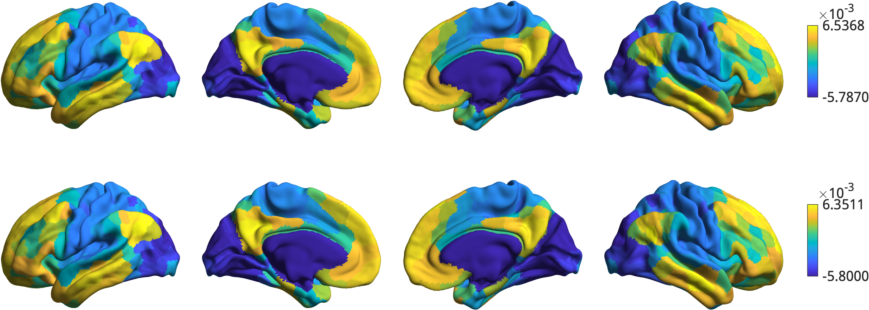
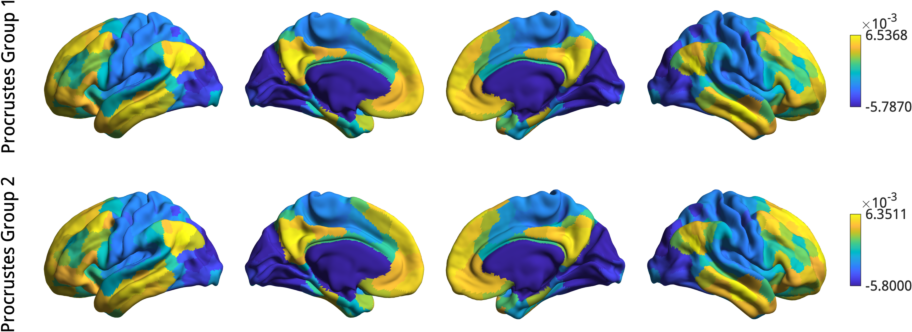
Revamped the figures of tutorial 2 + corrections

diff --git a/matlab/plot_data/plot_hemispheres.m b/matlab/plot_data/plot_hemispheres.m
@@ -30,7 +30,7 @@ if numel(S) > 3; error('More than two surfaces are not accepted.'); end
 N1 = sum(cellfun(@(x)size(x.coord,2),S));
 N2 = size(data,1);
 if N1 ~= N2; error('Number of vertices on the surface and number of data points do not match.'); end
-if size(data,2) > 5; warning('Plotting more than five data vectors results in off-screen axes'); end
+if size(data,2) > 4; warning('Plotting more than four data vectors may result in off-screen axes'); end
 
 % Split data over surfaces.
 for ii = 1:size(data,2)
@@ -55,7 +55,7 @@ colormap(parula(256));
 for jj = 1:size(D,2)
     for ii = 1:numel(S)*2
         idx = ceil(ii/2);
-        h.axes(ii,jj) = axes('Position',[-.133+ii*.133 1-.2*jj .2 .2]);
+        h.axes(ii,jj) = axes('Position',[-.1+ii*.133 .9-.2*jj .2 .2]);
         h.trisurf(ii,jj) = trisurf(S{idx}.tri, ...
             S{idx}.coord(1,:), ...
             S{idx}.coord(2,:), ...
@@ -95,9 +95,9 @@ for ii = 1:size(D,2)
     h.cb(ii).FontSize = 14;
 end
 
-% Add labels
+% Add labels         
 for ii = 1:numel(label_text)
     h.text(ii) = text(h.axes(1,ii),-.2,.5,label_text{ii},'Rotation',90, ...
         'Units','Normalized','HorizontalAlignment','center', 'FontName', ...
-        'DroidSans','FontSize',16);
+        'DroidSans','FontSize',18);
 end

diff --git a/matlab/@GradientMaps/GradientMaps.m b/matlab/@GradientMaps/GradientMaps.m
@@ -134,7 +134,7 @@ classdef GradientMaps
                                     obj.method.alignment = 'None';
                                 case {'pa','procrustes','procrustes analysis','procrustesanalysis'}
                                     obj.method.alignment = 'Procrustes Analysis';
-                                case {'j','joint','jointalignment'}
+                                case {'ja','joint','jointalignment'}
                                     obj.method.alignment = 'Joint Alignment';
                             end
                             change_string{end+1} = (['Set the alignment to: ' obj.method.alignment '.']);

diff --git a/matlab/analysis_code/procrustes_alignment.m b/matlab/analysis_code/procrustes_alignment.m
@@ -22,7 +22,7 @@ for ii = 1:numel(gradients)
 end
 
 % Set the first alignment target.
-if isnan(p.Results.first_alignment_target)
+if isnan(p.Results.reference)
     first_target = embs{1};
 else
     first_target = p.Results.reference;

diff --git a/docs/pages/matlab_doc/examples/tutorial_2_gradient_customization.rst b/docs/pages/matlab_doc/examples/tutorial_2_gradient_customization.rst
@@ -40,11 +40,13 @@ at three different kernels.
         gm_k{ii} = gm_k{ii}.fit(conn_matrix);
     end
     
+    label_text = {'Pearson','Spearman',{'Normalized','Angle'}};
     plot_hemispheres([gm_k{1}.gradients{1}(:,1), ...
         gm_k{2}.gradients{1}(:,1), ...
         gm_k{3}.gradients{1}(:,1)], ...
         {surf_lh,surf_rh}, ...
-        'parcellation', labeling);
+        'parcellation', labeling, ...
+        'labeltext',label_text);
     
 .. image:: ./example_figs/g1_schaefer_400_kernel.png
     :scale: 70%
@@ -58,6 +60,7 @@ techniques.
  
 .. code-block:: matlab    
     
+    % Compute gradients for every approach.
     embeddings = {'principalComponentanAnalysis', ...
                   'laplacianEigenmap', ...
                   'diffusionEmbedding'}; % case-insensitve
@@ -66,11 +69,15 @@ techniques.
         gm_m{ii} = gm_m{ii}.fit(conn_matrix);
     end
     
+    % Plot all to one figure. 
+    label_text = {{'Principal','Component Analysis'}, ...
+        {'Laplacian','Eigenmap'}, {'Diffusion','Map Embedding'}};
     plot_hemispheres([gm_m{1}.gradients{1}(:,1), ...
         gm_m{2}.gradients{1}(:,1), ...
         gm_m{3}.gradients{1}(:,1)], ...
         {surf_lh,surf_rh}, ...
-        'parcellation', labeling);
+        'parcellation', labeling, ...
+        'labeltext', label_text);
     
 .. image:: ./example_figs/g1_schaefer_400_approach.png
     :scale: 70%
@@ -85,14 +92,16 @@ multiply either the LM and DM gradient by -1 to make them more comparable.
 A more principled way of increasing comparability across gradients are alignment
 techniques. BrainSpace provides two alignment techniques: Procrustes analysis,
 and joint alignment. For this example we will load functional connectivity data
-of a second subject group and align it with the first group.  
+of a second subject group and align it with the first group using a normalized
+angle kernel and laplacian eigenmap approach.  
 
 .. code-block:: matlab    
     
     conn_matrix2 = load_group_fc('schaefer',400,'holdout');
-    Gp = GradientMaps('kernel','na','manifold','le','alignment','pa');
-    Gj = GradientMaps('kernel','na','manifold','le','alignment','ja');
-    
+    conn_matrix2 = conn_matrix2.schaefer_400;
+    Gp = GradientMaps('kernel','na','approach','le','alignment','pa');
+    Gj = GradientMaps('kernel','na','approach','le','alignment','ja');
+
     Gp = Gp.fit({conn_matrix2,conn_matrix});
     Gj = Gj.fit({conn_matrix2,conn_matrix});
 
@@ -102,8 +111,9 @@ aligned data. Let's plot them, but in separate figures to keep things organized.
 
 .. code-block:: matlab    
     
-    plot_hemispheres({Gp.gradients{1}(:,1),Gp.gradients{2}(:,1)}, ...
-        {surf_lh,surf_rh}, 'parcellation', labeling);
+    plot_hemispheres([Gp.gradients{1}(:,1),Gp.gradients{2}(:,1)], ...
+        {surf_lh,surf_rh}, 'parcellation', labeling, ...
+        'labeltext',{'Unaligned Group 1','Unaligned Group 2'});
     
 .. image:: ./example_figs/g1_main_holdout_noalign.png
     :scale: 70%
@@ -111,9 +121,9 @@ aligned data. Let's plot them, but in separate figures to keep things organized.
 
 .. code-block:: matlab    
     
-    h1 = plot_hemispheres({Gp.aligned{1}(:,1),Gp.aligned{2}(:,1)}, ...
-        {surf_lh,surf_rh},labeling);
-    h1.figure.Name = 'Procrustes';
+    plot_hemispheres([Gp.aligned{1}(:,1),Gp.aligned{2}(:,1)], ...
+        {surf_lh,surf_rh},'parcellation',labeling, ...
+        'labeltext',{'Procrustes Group 1','Procrustes Group 2'});
     
 .. image:: ./example_figs/g1_main_holdout_procrustes.png
     :scale: 70%
@@ -121,10 +131,9 @@ aligned data. Let's plot them, but in separate figures to keep things organized.
     
 .. code-block:: matlab    
     
-    h2 = plot_hemispheres({Gj.aligned{1}(:,1),Gj.aligned{2}(:,1)}, ...
-        {surf_lh,surf_rh},'parcellation',labeling);
-    h2.figure.Name = 'Joint';
-    
+    plot_hemispheres([Gj.aligned{1}(:,1),Gj.aligned{2}(:,1)], ...
+        {surf_lh,surf_rh},'parcellation',labeling, ...
+        'labeltext',{'Joint Group 1','Joint Group 2'});
     
 .. image:: ./example_figs/g1_main_holdout_joint.png
     :scale: 70%
